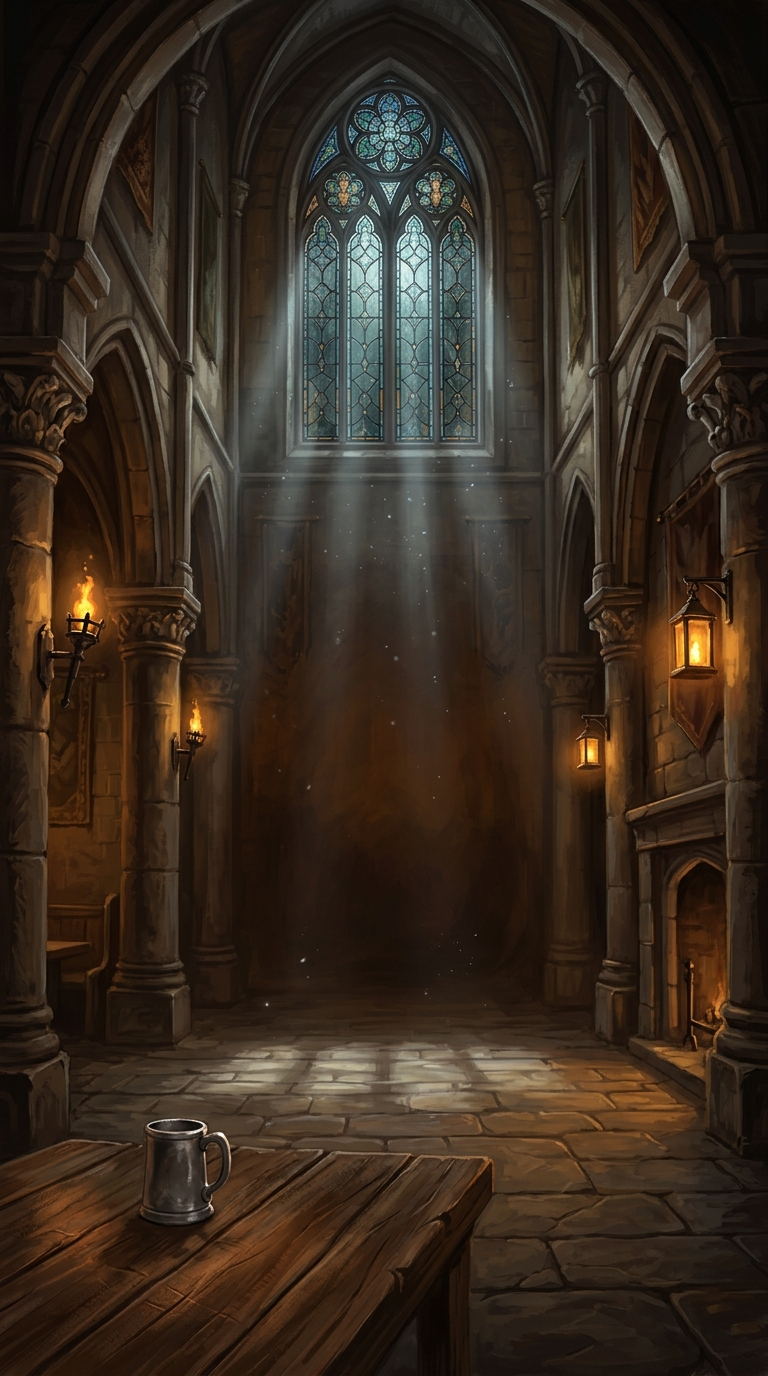
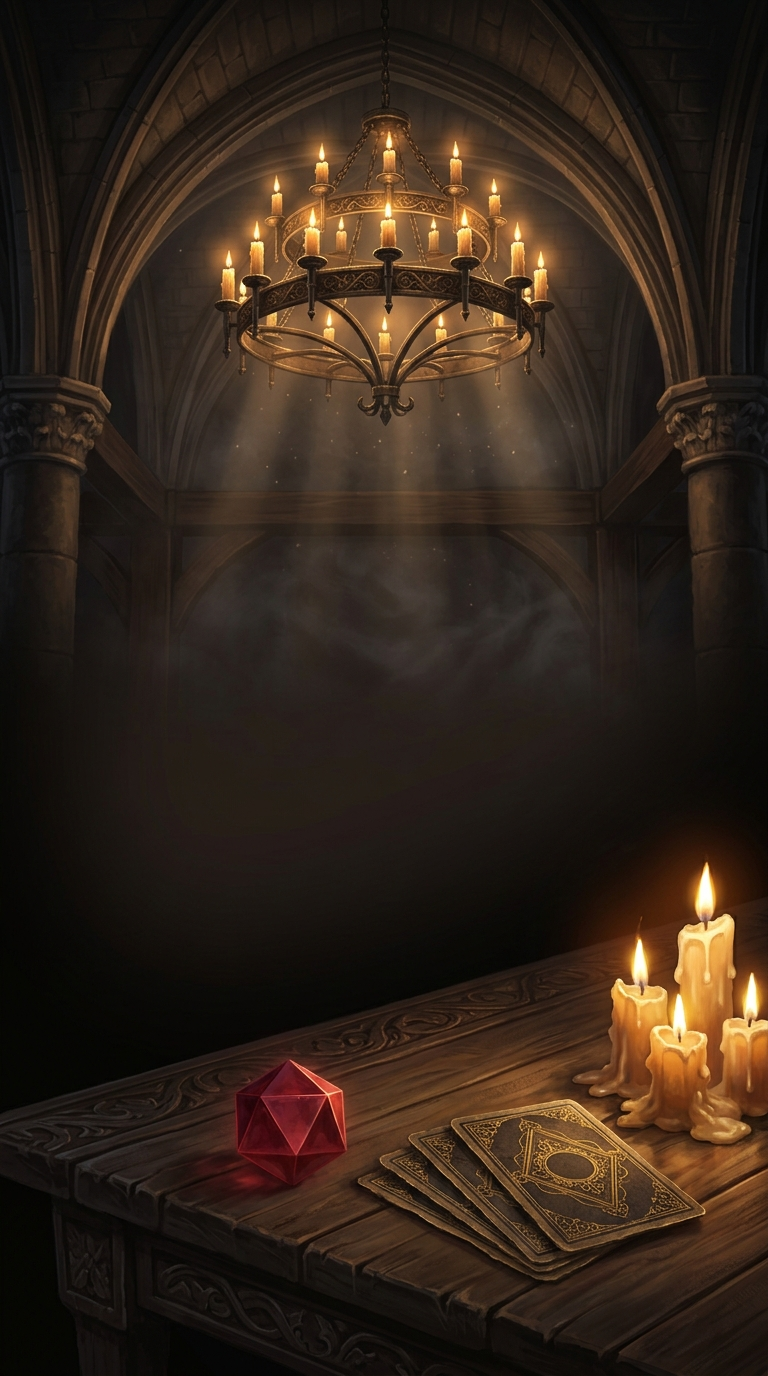
Add custom AAA Desktop and Mobile gothic key art backgrounds and open-air carved walnut/gold lobby UI

diff --git a/retro.css b/retro.css
@@ -10123,3 +10123,288 @@ body[data-board="gold"] main::after {
   .lobby-stage .qs-btn b { font-size: 12px; }
   .lobby-stage .qs-btn small { font-size: 9.5px; }
 }
+
+/* ==========================================================================
+   AAA OPEN-AIR KEY ART LOBBY (GWENT / DIABLO IV / HEARTHSTONE CRAFT)
+   - Masaüstü (>820px): Sol sütunda açık-hava menü, sağda D20 & şamdan tablosu 100% görünür
+   - Mobil (≤820px): Avize ile D20 masası arasında sisli bölgede nefes alan temiz menü
+   - Temiz oyma ceviz/meşe tonları + ince antik altın çerçeve (çamurlu gerilmiş doku yok)
+   ========================================================================== */
+#menu::before {
+  content: "" !important;
+  display: block !important;
+  position: fixed;
+  inset: 0;
+  z-index: 1;
+  pointer-events: none;
+  background:
+    linear-gradient(90deg, rgba(6, 4, 3, 0.72) 0%, rgba(6, 4, 3, 0.36) 44%, rgba(6, 4, 3, 0.04) 76%, rgba(6, 4, 3, 0.18) 100%),
+    linear-gradient(180deg, rgba(6, 4, 3, 0.52) 0%, transparent 22%, transparent 78%, rgba(6, 4, 3, 0.72) 100%);
+}
+
+/* Üst HUD Barı: Minimal, temiz, rafine antik altın & koyu ceviz */
+#menu > #auth-bar {
+  max-width: none !important;
+  padding: max(14px, env(safe-area-inset-top, 14px)) clamp(18px, 3vw, 40px) 6px !important;
+}
+#menu > #auth-bar .auth-pill {
+  background: linear-gradient(180deg, rgba(34, 22, 14, 0.88), rgba(18, 11, 7, 0.94)) !important;
+  border: 1.5px solid rgba(206, 162, 86, 0.58) !important;
+  box-shadow: 0 8px 24px rgba(0, 0, 0, 0.68), inset 0 1px 0 rgba(255, 232, 180, 0.2) !important;
+  backdrop-filter: blur(6px);
+  -webkit-backdrop-filter: blur(6px);
+}
+#menu > #auth-bar .auth-lb-btn {
+  background: linear-gradient(180deg, rgba(36, 23, 14, 0.86), rgba(18, 11, 7, 0.94)) !important;
+  border: 1.5px solid rgba(196, 152, 78, 0.48) !important;
+  color: #f3e4c4 !important;
+  box-shadow: 0 6px 18px rgba(0, 0, 0, 0.62), inset 0 1px 0 rgba(255, 230, 175, 0.16) !important;
+  backdrop-filter: blur(6px);
+  -webkit-backdrop-filter: blur(6px);
+}
+#menu > #auth-bar .auth-lb-btn:hover {
+  border-color: #f6cf55 !important;
+  color: #fff8e6 !important;
+}
+
+/* MASAÜSTÜ: SOLA YASLI AÇIK-HAVA AAA OYUN MENÜSÜ (SAĞDAKİ D20 & ŞAMDAN TABLOSU TAM AÇIK!) */
+#mb2.lobby-hub {
+  width: min(44vw, 430px) !important;
+  max-width: 430px !important;
+  margin: auto auto auto clamp(28px, 5.5vw, 96px) !important;
+  align-items: flex-start !important;
+  gap: clamp(12px, 2dvh, 20px) !important;
+  padding: 0 !important;
+}
+#mb2.lobby-hub .hs-header {
+  align-items: flex-start !important;
+}
+#mb2.lobby-hub .hs-title {
+  width: min(100%, 360px) !important;
+  margin: 0 !important;
+}
+#mb2.lobby-hub .hs-logo-img {
+  max-height: clamp(78px, 14dvh, 128px) !important;
+  filter: drop-shadow(0 10px 24px rgba(0, 0, 0, 0.92)) drop-shadow(0 0 20px rgba(242, 190, 90, 0.25)) !important;
+}
+
+/* KOCA KAHVERENGİ KUTU KALDIRILDI — ŞIK AÇIK-HAVA YÜZEN TAHTA & ALTIN PLAKALAR */
+.lobby-stage {
+  background: none !important;
+  border: none !important;
+  box-shadow: none !important;
+  padding: 0 !important;
+  gap: 11px !important;
+}
+.lobby-stage::after {
+  display: none !important;
+  content: none !important;
+}
+
+/* 3 Kategorili Şık Oyma Ceviz & Altın Sekme Çubuğu */
+.lobby-stage .queue-switch {
+  padding: 4px !important;
+  gap: 5px !important;
+  border-radius: 11px !important;
+  background: linear-gradient(180deg, rgba(22, 14, 9, 0.86), rgba(12, 8, 5, 0.92)) !important;
+  border: 1.5px solid rgba(196, 150, 74, 0.42) !important;
+  box-shadow: 0 10px 26px rgba(0, 0, 0, 0.65), inset 0 1px 0 rgba(255, 232, 180, 0.12) !important;
+  backdrop-filter: blur(8px);
+  -webkit-backdrop-filter: blur(8px);
+}
+.lobby-stage .qs-btn {
+  background: transparent !important;
+  border: 1px solid transparent !important;
+  border-radius: 8px !important;
+  box-shadow: none !important;
+  padding: 8px 6px !important;
+  color: #b7a282 !important;
+  transition: background 0.16s ease, border-color 0.16s ease, color 0.16s ease, transform 0.12s ease !important;
+}
+.lobby-stage .qs-btn:hover {
+  background: rgba(255, 224, 165, 0.06) !important;
+  color: #f3e4c6 !important;
+}
+.lobby-stage .qs-btn.act[data-q="ranked"] {
+  background: linear-gradient(180deg, rgba(132, 78, 22, 0.78), rgba(74, 40, 11, 0.92)) !important;
+  border-color: rgba(246, 207, 85, 0.86) !important;
+  color: #fff6d6 !important;
+  box-shadow: 0 4px 14px rgba(0, 0, 0, 0.5), 0 0 16px rgba(245, 200, 66, 0.22), inset 0 1px 0 rgba(255, 240, 190, 0.35) !important;
+}
+.lobby-stage .qs-btn.act[data-q="normal"] {
+  background: linear-gradient(180deg, rgba(66, 46, 30, 0.86), rgba(38, 25, 16, 0.95)) !important;
+  border-color: rgba(218, 184, 122, 0.75) !important;
+  color: #fff5e0 !important;
+  box-shadow: 0 4px 14px rgba(0, 0, 0, 0.5), inset 0 1px 0 rgba(255, 236, 195, 0.26) !important;
+}
+.lobby-stage .qs-btn.act[data-q="special"] {
+  background: linear-gradient(180deg, rgba(22, 68, 46, 0.84), rgba(12, 38, 25, 0.95)) !important;
+  border-color: rgba(110, 231, 183, 0.75) !important;
+  color: #ecfdf5 !important;
+  box-shadow: 0 4px 14px rgba(0, 0, 0, 0.5), 0 0 14px rgba(74, 222, 128, 0.18), inset 0 1px 0 rgba(190, 255, 220, 0.25) !important;
+}
+
+/* Lig Şeridi: Zarif Koyu Ceviz & Altın Kurdele */
+.lobby-stage .ranked-strip {
+  padding: 9px 14px !important;
+  border-radius: 11px !important;
+  background: linear-gradient(90deg, rgba(30, 19, 12, 0.9), rgba(16, 10, 7, 0.88)) !important;
+  border: 1.5px solid color-mix(in srgb, var(--lg-c, #d4a652) 60%, rgba(255, 255, 255, 0.08)) !important;
+  box-shadow: 0 10px 26px rgba(0, 0, 0, 0.65), inset 0 1px 0 rgba(255, 232, 180, 0.16) !important;
+  backdrop-filter: blur(8px);
+  -webkit-backdrop-filter: blur(8px);
+}
+
+/* Oyun Kartları: Keskin, Heykelsi, Oyma Ceviz & Antik Pirinç Plakalar */
+.play-stack {
+  gap: 10px !important;
+}
+.play-card {
+  position: relative;
+  padding: 15px 18px 15px 20px !important;
+  border-radius: 11px !important;
+  overflow: hidden;
+  backdrop-filter: blur(8px);
+  -webkit-backdrop-filter: blur(8px);
+  box-shadow: 0 12px 28px rgba(0, 0, 0, 0.72), inset 0 1px 0 rgba(255, 234, 188, 0.22) !important;
+}
+.play-card::before {
+  content: "";
+  position: absolute;
+  left: 0;
+  top: 0;
+  bottom: 0;
+  width: 4px;
+  background: linear-gradient(180deg, #ffe394, #b57b28);
+  opacity: 0.92;
+}
+.play-card.play-primary {
+  min-height: 70px !important;
+  background:
+    radial-gradient(90% 120% at 8% 50%, rgba(196, 48, 30, 0.42), transparent 65%),
+    linear-gradient(180deg, rgba(96, 28, 20, 0.92) 0%, rgba(52, 14, 10, 0.96) 100%) !important;
+  border: 1.5px solid rgba(246, 207, 85, 0.85) !important;
+  box-shadow:
+    0 14px 32px rgba(0, 0, 0, 0.78),
+    0 0 26px rgba(188, 46, 28, 0.28),
+    inset 0 1px 0 rgba(255, 238, 192, 0.34) !important;
+}
+.play-card.play-primary::before {
+  width: 5px;
+  background: linear-gradient(180deg, #fff1b8, #f5b93b, #b86c14);
+}
+.play-card.play-ai {
+  min-height: 60px !important;
+  background:
+    radial-gradient(85% 120% at 8% 50%, rgba(186, 132, 56, 0.16), transparent 65%),
+    linear-gradient(180deg, rgba(44, 29, 18, 0.9) 0%, rgba(24, 15, 9, 0.95) 100%) !important;
+  border: 1.5px solid rgba(201, 154, 76, 0.56) !important;
+}
+.play-card.play-sp-vault {
+  min-height: 58px !important;
+  background: linear-gradient(180deg, rgba(64, 38, 16, 0.9) 0%, rgba(30, 17, 8, 0.95) 100%) !important;
+  border: 1.5px solid rgba(235, 182, 78, 0.62) !important;
+}
+.play-card.play-sp-cursed {
+  min-height: 58px !important;
+  background: linear-gradient(180deg, rgba(48, 22, 66, 0.9) 0%, rgba(24, 10, 34, 0.95) 100%) !important;
+  border: 1.5px solid rgba(186, 126, 238, 0.6) !important;
+}
+.play-card.play-sp-cursed::before {
+  background: linear-gradient(180deg, #e0b3ff, #8a44c4);
+}
+.play-card.play-sp-puzzle {
+  min-height: 58px !important;
+  background: linear-gradient(180deg, rgba(18, 52, 34, 0.9) 0%, rgba(9, 26, 17, 0.95) 100%) !important;
+  border: 1.5px solid rgba(98, 212, 148, 0.58) !important;
+}
+.play-card.play-sp-puzzle::before {
+  background: linear-gradient(180deg, #9ef7c4, #2b9459);
+}
+
+/* Alt Dock Barı: Masaüstünde sola hizalı zarif ceviz-altın çubuk */
+.menu-dock {
+  width: min(44vw, 430px) !important;
+  margin: 0 auto max(22px, env(safe-area-inset-bottom, 22px)) clamp(28px, 5.5vw, 96px) !important;
+  padding: 5px !important;
+  gap: 5px !important;
+  border-radius: 12px !important;
+  background: linear-gradient(180deg, rgba(28, 18, 11, 0.88), rgba(14, 9, 6, 0.94)) !important;
+  border: 1.5px solid rgba(196, 150, 74, 0.48) !important;
+  box-shadow: 0 12px 30px rgba(0, 0, 0, 0.78), inset 0 1px 0 rgba(255, 232, 180, 0.16) !important;
+  backdrop-filter: blur(8px);
+  -webkit-backdrop-filter: blur(8px);
+}
+.dock-btn {
+  background: linear-gradient(180deg, rgba(46, 30, 19, 0.62), rgba(26, 16, 10, 0.78)) !important;
+  border: 1px solid rgba(196, 150, 74, 0.3) !important;
+  border-radius: 8px !important;
+  box-shadow: inset 0 1px 0 rgba(255, 230, 175, 0.14) !important;
+}
+.dock-btn:hover {
+  background: linear-gradient(180deg, rgba(72, 46, 26, 0.85), rgba(40, 24, 14, 0.92)) !important;
+  border-color: rgba(246, 207, 85, 0.78) !important;
+}
+
+/* Mod Seçim Pencereleri (.ps-card): Temiz Oyma Ceviz & Altın */
+.ps-card {
+  background: linear-gradient(180deg, rgba(44, 29, 18, 0.94), rgba(24, 15, 10, 0.97)) !important;
+  border: 1.5px solid rgba(196, 150, 74, 0.5) !important;
+  border-radius: 10px !important;
+  box-shadow: 0 6px 18px rgba(0, 0, 0, 0.62), inset 0 1px 0 rgba(255, 230, 175, 0.18) !important;
+}
+.ps-card.ps-card-main {
+  background: linear-gradient(180deg, rgba(102, 30, 20, 0.94), rgba(56, 15, 10, 0.97)) !important;
+  border-color: rgba(246, 207, 85, 0.84) !important;
+}
+.ps-card.ps-d-imp {
+  background: linear-gradient(180deg, rgba(76, 18, 30, 0.94), rgba(38, 9, 16, 0.97)) !important;
+  border-color: rgba(232, 92, 118, 0.74) !important;
+}
+
+/* MOBİL (≤ 820px): AVİZE İLE D20 MASASI ARASINDA MERKEZİ, NEFES ALAN AAA MOBİL LOBİ */
+@media (max-width: 820px) {
+  #menu::before {
+    background:
+      linear-gradient(180deg, rgba(6, 4, 3, 0.42) 0%, transparent 18%, rgba(6, 4, 3, 0.25) 48%, rgba(6, 4, 3, 0.15) 76%, rgba(6, 4, 3, 0.78) 100%);
+  }
+  #mb2.lobby-hub {
+    width: min(92vw, 410px) !important;
+    max-width: 410px !important;
+    margin: auto !important;
+    align-items: center !important;
+    gap: clamp(10px, 1.8dvh, 16px) !important;
+  }
+  #mb2.lobby-hub .hs-header {
+    align-items: center !important;
+  }
+  #mb2.lobby-hub .hs-title {
+    width: min(74vw, 290px) !important;
+    margin: 0 auto !important;
+  }
+  #mb2.lobby-hub .hs-logo-img {
+    max-height: clamp(64px, 12dvh, 98px) !important;
+  }
+  .play-card {
+    padding: 13px 15px 13px 17px !important;
+  }
+  .play-card.play-primary {
+    min-height: 60px !important;
+  }
+  .play-card.play-ai,
+  .play-card.play-sp-vault,
+  .play-card.play-sp-cursed,
+  .play-card.play-sp-puzzle {
+    min-height: 52px !important;
+  }
+  .menu-dock {
+    width: 100% !important;
+    max-width: none !important;
+    margin: 0 !important;
+    border-radius: 0 !important;
+    border-left: none !important;
+    border-right: none !important;
+    border-bottom: none !important;
+    padding: 7px 8px max(10px, env(safe-area-inset-bottom, 10px)) !important;
+  }
+}

diff --git a/index.html b/index.html
@@ -33,7 +33,7 @@
 <link href="https://fonts.googleapis.com/css2?family=Crimson+Pro:wght@500;600;700;800&text=0123456789&display=swap" rel="stylesheet">
 <link href="https://fonts.googleapis.com/css2?family=Lora:wght@700&text=%3F%2B&display=swap" rel="stylesheet">
 <link rel="stylesheet" href="style.css?v=20261121_perf">
-<link rel="stylesheet" href="retro.css?v=20261125_3cats">
+<link rel="stylesheet" href="retro.css?v=20261125_keyart2">
 </head>
 <body>
 <div id="splash"><img id="slogo" alt=""><b>limbigames</b></div>
@@ -134,6 +134,6 @@
 <script src="audio_data.js?v=20261114_tavern1"></script>
 <script src="hd.js?v=20261115_hs11"></script>
 <script src="d20_canvas.js?v=20261124_big4"></script>
-<script src="game.js?v=20261125_3cats"></script>
+<script src="game.js?v=20261125_keyart2"></script>
 </body>
 </html>

diff --git a/game.js b/game.js
@@ -5228,7 +5228,7 @@ function createSmoothDragLoop(onFrame){
     const wantMobile=window.innerWidth<=760||window.innerHeight>window.innerWidth*1.15;
     if(wantMobile===isMobileMenuBg&&menuImg.src)return;
     isMobileMenuBg=wantMobile;
-    const url=wantMobile?'menu_gothic_mobile.jpg?v=20261116_m1':'menu_gothic.jpg?v=20261114_sanctum1';
+    const url=wantMobile?'menu_gothic_mobile.jpg?v=20261125_keyart2':'menu_gothic.jpg?v=20261125_keyart2';
     cvs.style.background=`url('${url}') center/cover no-repeat #09060a`;
     menuImg.src=url;
   }

diff --git a/sw.js b/sw.js
@@ -1,4 +1,4 @@
-const C='nd-v293-3category-wood-lobby';
+const C='nd-v294-aaa-keyart-lobby';
 self.addEventListener('install',e=>{e.waitUntil(caches.open(C).then(c=>c.addAll(['./','index.html','style.css','retro.css','game.js','images.js','manifest.json']).catch(()=>{})));self.skipWaiting()});
 self.addEventListener('activate',e=>e.waitUntil(caches.keys().then(k=>Promise.all(k.filter(x=>x!=C).map(x=>caches.delete(x)))).then(()=>self.clients.claim())));
 self.addEventListener('fetch',e=>{
